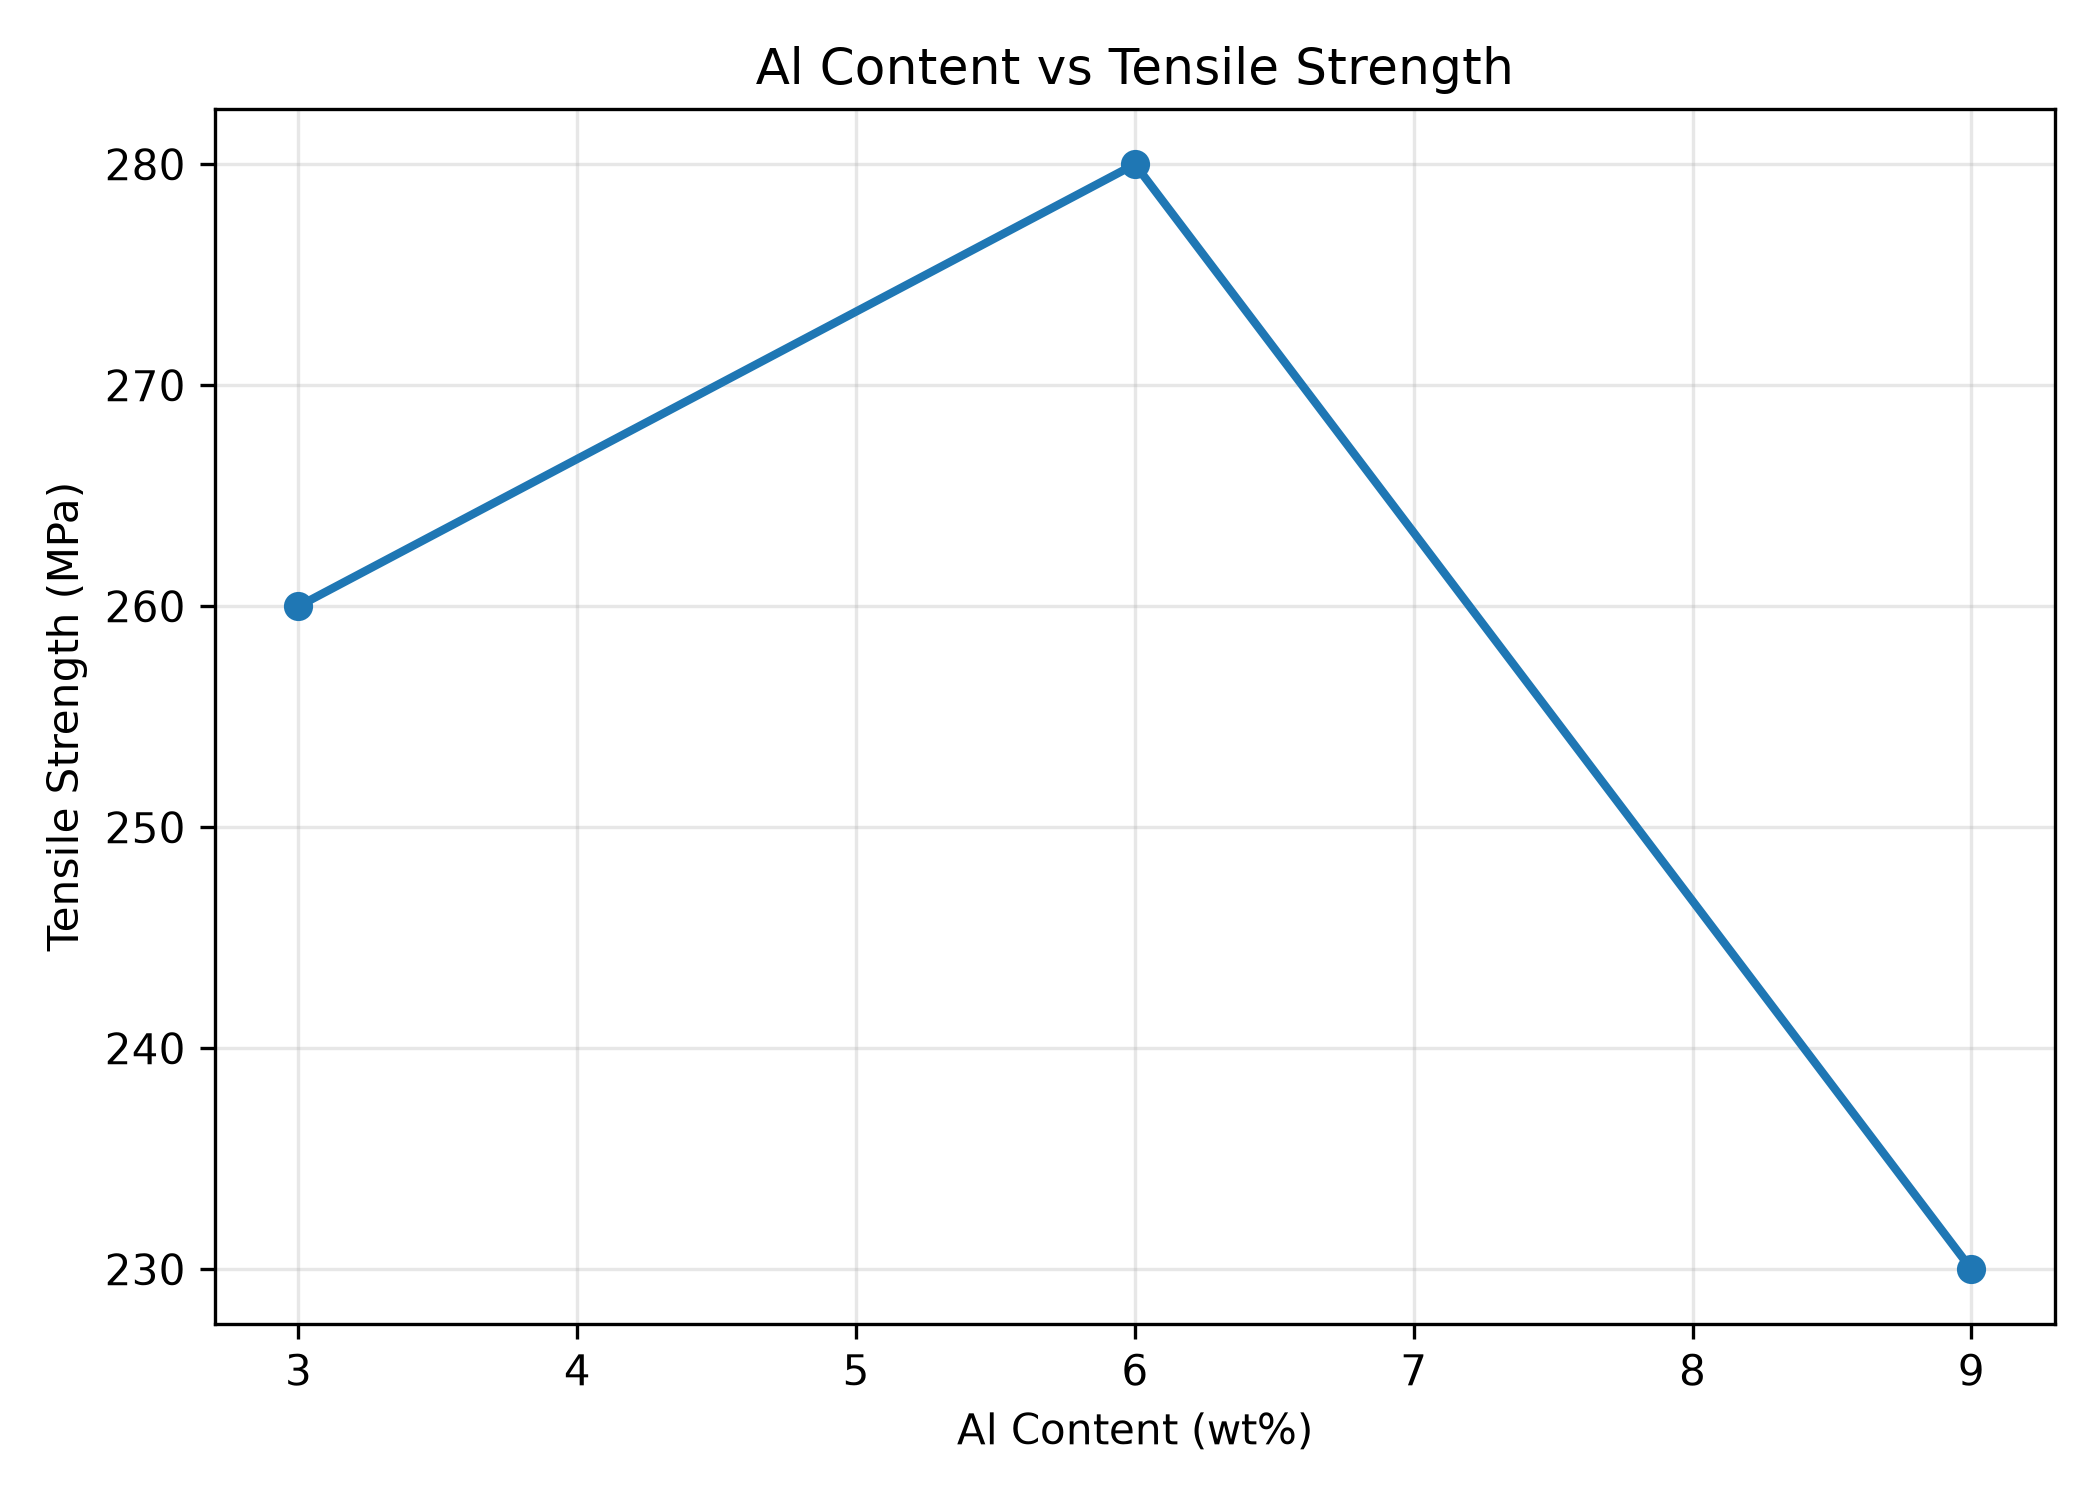
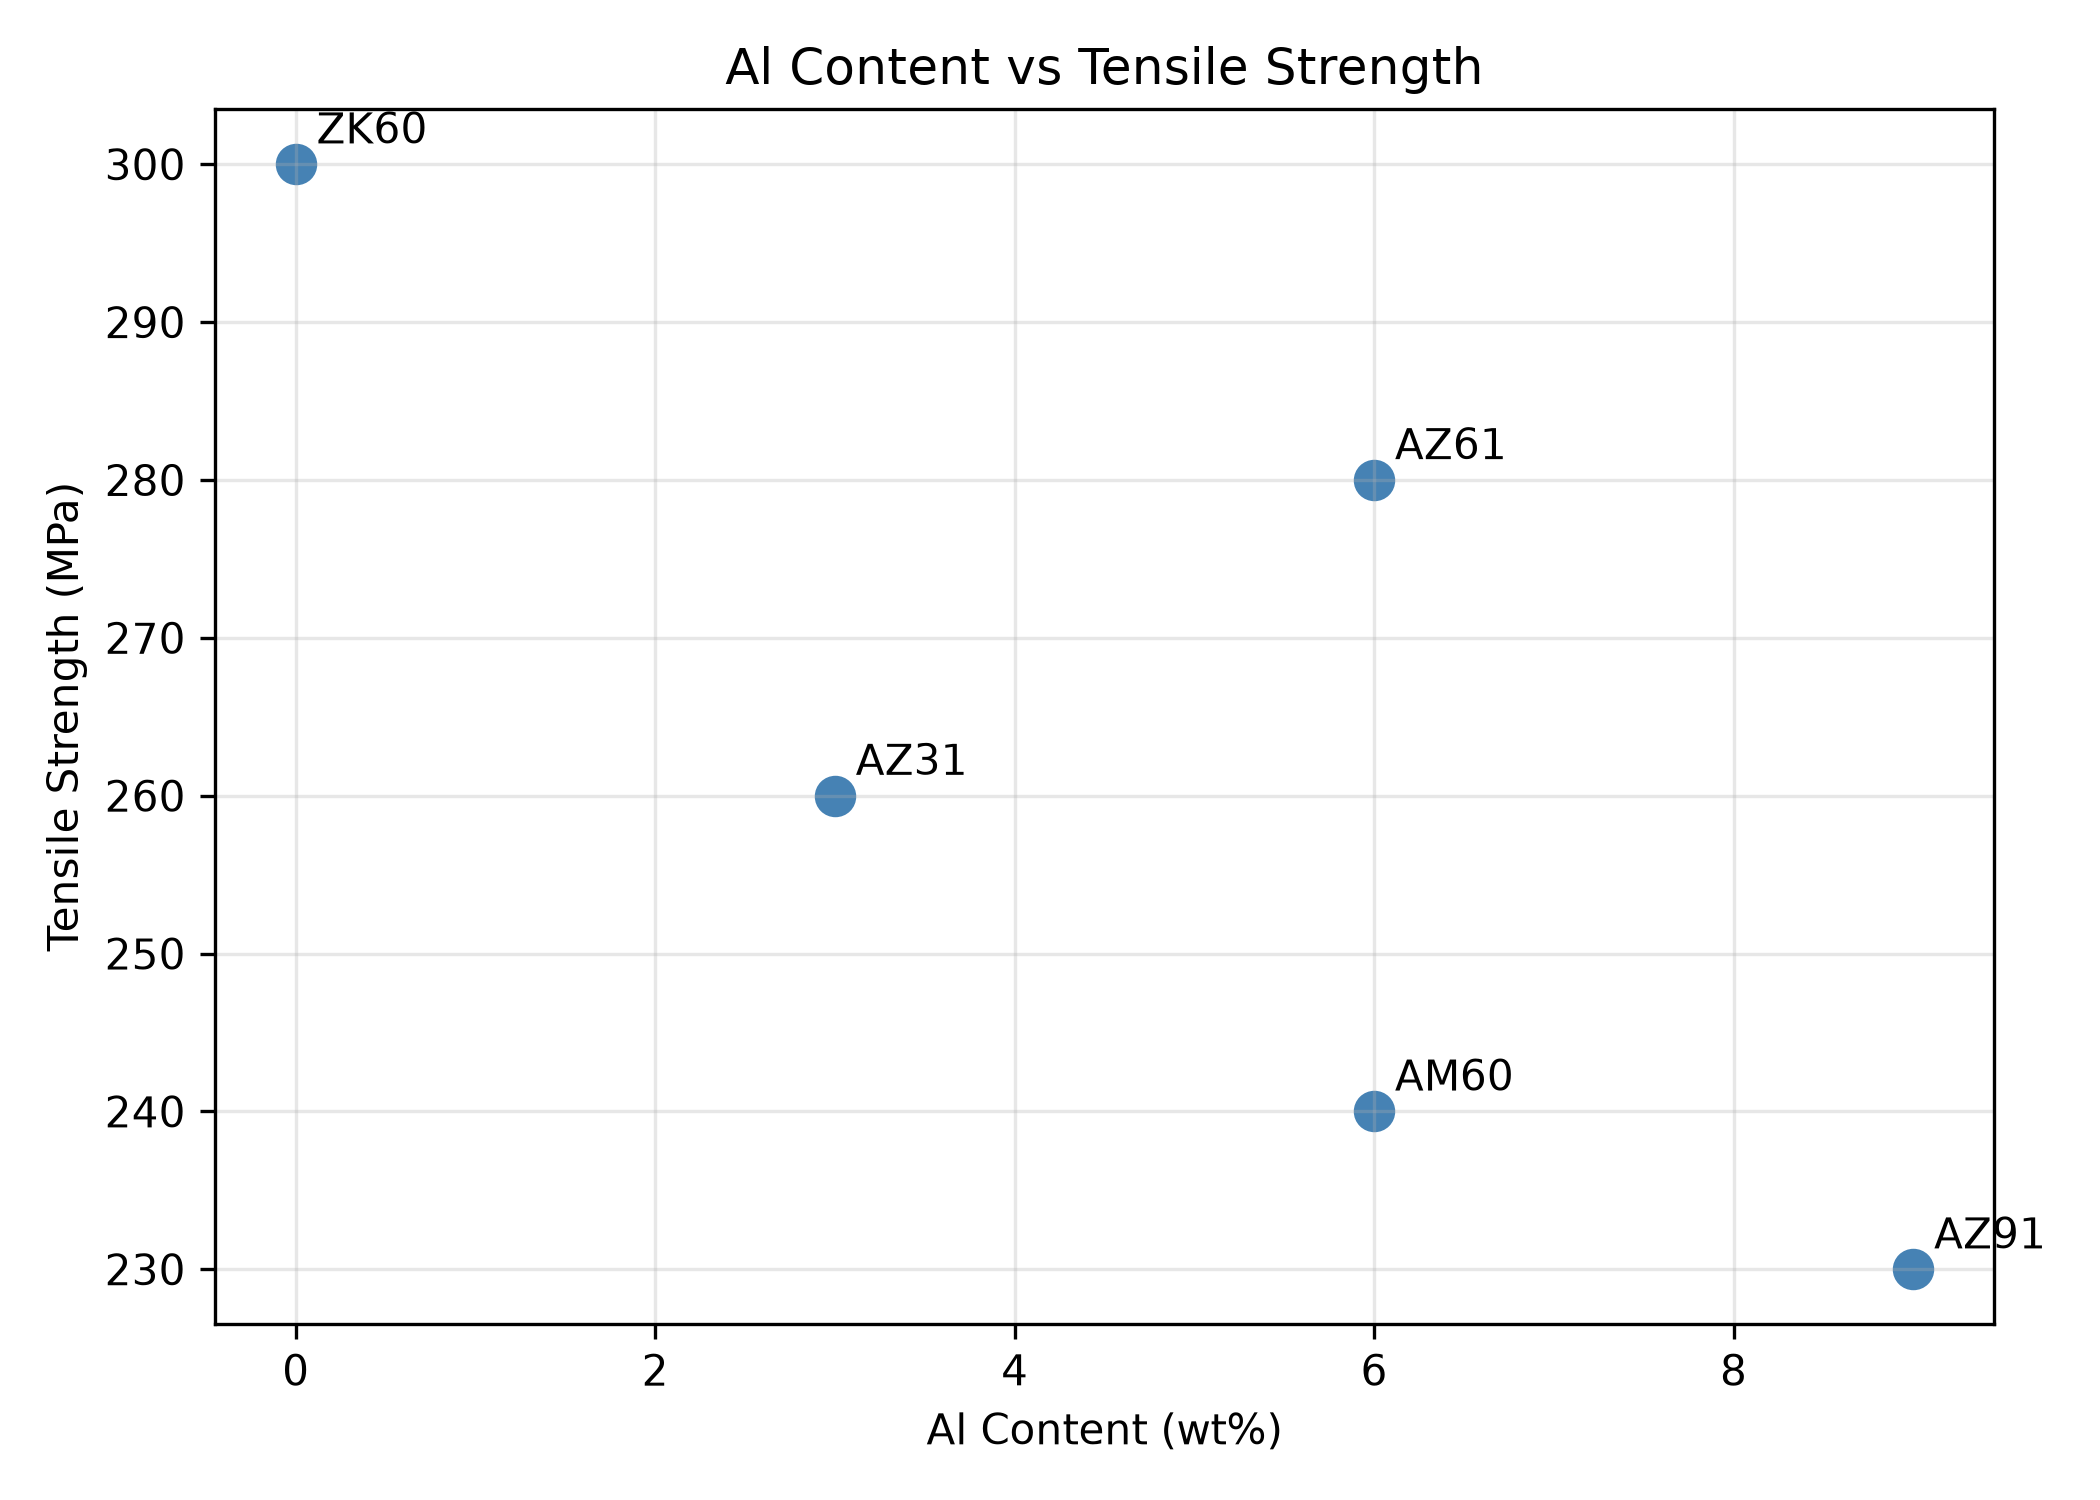
feat: load alloy data from CSV

diff --git a/01_explore_alloy_data.py b/01_explore_alloy_data.py
@@ -1,0 +1,54 @@
+from pathlib import Path
+
+import matplotlib.pyplot as plt
+import pandas as pd
+
+
+# 获取项目文件夹及数据文件路径
+project_dir = Path(__file__).parent
+data_path = project_dir / "data" / "alloys.csv"
+
+# 从CSV读取数据
+df = pd.read_csv(data_path)
+
+print("材料数据表：")
+print(df)
+
+print(f"\n数据行数：{df.shape[0]}")
+print(f"数据列数：{df.shape[1]}")
+print("\n每列缺失值数量：")
+print(df.isna().sum())
+
+average_strength = df["tensile_strength_MPa"].mean()
+print(f"\n平均抗拉强度：{average_strength:.1f} MPa")
+
+# 绘制散点图
+plt.figure(figsize=(7, 5))
+
+plt.scatter(
+    df["Al_wt_pct"],
+    df["tensile_strength_MPa"],
+    s=80,
+    color="steelblue",
+)
+
+# 在每个数据点旁标注合金名称
+for _, row in df.iterrows():
+    plt.annotate(
+        row["alloy"],
+        (row["Al_wt_pct"], row["tensile_strength_MPa"]),
+        xytext=(5, 5),
+        textcoords="offset points",
+    )
+
+plt.xlabel("Al Content (wt%)")
+plt.ylabel("Tensile Strength (MPa)")
+plt.title("Al Content vs Tensile Strength")
+plt.grid(alpha=0.3)
+plt.tight_layout()
+
+output_path = project_dir / "alloy_strength.png"
+plt.savefig(output_path, dpi=300)
+plt.show()
+
+print(f"\n图片已保存至：{output_path}")

diff --git a/README.md b/README.md
@@ -24,4 +24,4 @@ A step-by-step repository for learning materials data analysis and machine learn
 ## Run the Example
 
 ```bash
-python hello.py
+python 01_explore_alloy_data.py
